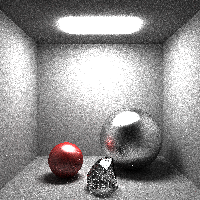
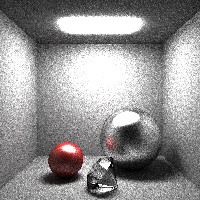
much simpler reflection model

diff --git a/render3d/material.go b/render3d/material.go
@@ -278,37 +278,24 @@ func densityAroundDirection(alpha float64, direction, sample model3d.Coord3D) fl
 	return 2 * (alpha + 1) / math.Pow(v, 1/(alpha+1)-1)
 }
 
-// RefractPhongMaterial is a material that refracts some
-// amount of its incoming into itself, with an
-// approximation similar to PhongMaterial.
+// RefractMaterial is an approximate refraction material
+// based on a delta function.
 //
-// This material is not a physically-based model, and as
-// such may cause light energy to be lost for higher
-// indices of refraction.
-// Also, it does not have a symmetrical BSDF for non-unit
-// indices of refraction, since concentration of light is
-// gained or lost depending on the direction hitting the
-// normal.
-type RefractPhongMaterial struct {
+// Unlike other BSDFs, the BSDF of RefractMaterial is
+// asymmetric, since energy is concentrated due to
+// refraction.
+type RefractMaterial struct {
 	// IndexOfRefraction is the index of refraction of
 	// this material. Values greater than one simulate
 	// materials like water or glass, where light travels
 	// more slowly than in space.
 	IndexOfRefraction float64
 
-	// Alpha controls the concentration of the refracted
-	// rays.
-	Alpha float64
-
 	// RefractColor is the mask used for refracted flux.
 	RefractColor Color
-
-	// NoFluxCorrection can be set to true to disable a
-	// max-Phong denominator.
-	NoFluxCorrection bool
 }
 
-func (r *RefractPhongMaterial) refract(normal, source model3d.Coord3D) model3d.Coord3D {
+func (r *RefractMaterial) refract(normal, source model3d.Coord3D) model3d.Coord3D {
 	sinePart := source.ProjectOut(normal)
 
 	sineScale := r.IndexOfRefraction
@@ -328,43 +315,74 @@ func (r *RefractPhongMaterial) refract(normal, source model3d.Coord3D) model3d.C
 	return sinePart.Add(cosinePart)
 }
 
-func (r *RefractPhongMaterial) refractInverse(normal, dest model3d.Coord3D) model3d.Coord3D {
+func (r *RefractMaterial) refractInverse(normal, dest model3d.Coord3D) model3d.Coord3D {
 	return r.refract(normal, dest.Scale(-1)).Scale(-1)
 }
 
-func (r *RefractPhongMaterial) BSDF(normal, source, dest model3d.Coord3D) Color {
+func (r *RefractMaterial) BSDF(normal, source, dest model3d.Coord3D) Color {
+	return r.RefractColor.Scale(r.bsdfScale(normal, source, dest))
+}
+
+func (r *RefractMaterial) bsdfScale(normal, source, dest model3d.Coord3D) float64 {
 	refracted := r.refract(normal, source)
-	scale := math.Pow(math.Max(0, refracted.Dot(dest)), r.Alpha)
-	scale *= r.Alpha + 1
-	if !r.NoFluxCorrection {
-		scale /= maximumCosine(source.Dot(normal), dest.Dot(normal))
+	delta := r.cosineDelta(normal, source, dest)
+	if dest.Dot(refracted) < 1-delta {
+		return 0
 	}
-	return r.RefractColor.Scale(scale * 2)
+	scale := 1 / maximumCosine(source.Dot(normal), dest.Dot(normal))
+
+	// delta/2 is the spanned fraction of the sphere
+	// for which we return non-zero.
+	return scale * 2 / delta
 }
 
-func (r *RefractPhongMaterial) SampleSource(normal, dest model3d.Coord3D) model3d.Coord3D {
-	// Mix in some uniform sampling.
-	// Inverting and then sampling around the inverse
-	// causes very bad samples for total internal
-	// reflection since we totally ignore certain source
-	// directions.
-	if rand.Intn(10) == 0 {
-		return model3d.NewCoord3DRandUnit()
+func (r *RefractMaterial) cosineDelta(normal, source, dest model3d.Coord3D) float64 {
+	delta := cosineEpsilon
+
+	// Area of the patch is changed for energy focus.
+	sourceSign := source.Dot(normal)
+	destSign := dest.Dot(normal)
+	if sourceSign != destSign {
+		// Reflection, no change in delta.
+	} else if sourceSign < 0 {
+		// Entering solid, area is concentrated.
+		delta /= r.IndexOfRefraction
+	} else {
+		// Leaving solid, area is spread out.
+		delta *= r.IndexOfRefraction
 	}
-	invDest := r.refractInverse(normal, dest)
-	return sampleAroundDirection(r.Alpha, invDest)
+
+	return delta
 }
 
-func (r *RefractPhongMaterial) SourceDensity(normal, source, dest model3d.Coord3D) float64 {
-	invDest := r.refractInverse(normal, dest)
-	return 0.1 + 0.9*(densityAroundDirection(r.Alpha, invDest, source))
+func (r *RefractMaterial) SampleSource(normal, dest model3d.Coord3D) model3d.Coord3D {
+	// Sample deterministically, since all vectors around
+	// this neighborhood have the same BRDF.
+	return r.refractInverse(normal, dest)
 }
 
-func (r *RefractPhongMaterial) Emission() Color {
+func (r *RefractMaterial) SourceDensity(normal, source, dest model3d.Coord3D) float64 {
+	// Perfectly cancel out the BRDF probability
+	// density, giving unchanged intensities for
+	// most incident angles.
+	//
+	// Note that it would actually be rather difficult to
+	// give a density over angles that would reflect into
+	// the dest direction, due to internal reflections and
+	// the like.
+	refracted := r.refract(normal, source)
+	delta := r.cosineDelta(normal, source, dest)
+	if dest.Dot(refracted) < 1-delta {
+		return 0
+	}
+	return 2 / delta
+}
+
+func (r *RefractMaterial) Emission() Color {
 	return Color{}
 }
 
-func (r *RefractPhongMaterial) Ambient() Color {
+func (r *RefractMaterial) Ambient() Color {
 	return Color{}
 }
 

diff --git a/render3d/material_test.go b/render3d/material_test.go
@@ -2,7 +2,6 @@ package render3d
 
 import (
 	"fmt"
-	"math"
 	"testing"
 
 	"github.com/unixpickle/model3d"
@@ -30,61 +29,6 @@ func TestPhongMaterialSampling(t *testing.T) {
 			DiffuseColor:  Color{X: 0.3, Y: 0.2, Z: 0.5},
 		})
 	})
-}
-
-func TestRefractPhongMaterialSampling(t *testing.T) {
-	for _, alpha := range []float64{0, 0.5, 2} {
-		for _, index := range []float64{1.3, 0.7} {
-			t.Run(fmt.Sprintf("Alpha%.1fIndex%.1f", alpha, index), func(t *testing.T) {
-				testMaterialSampling(t, &RefractPhongMaterial{
-					Alpha:             alpha,
-					IndexOfRefraction: index,
-					RefractColor:      Color{X: 1, Y: 0.9, Z: 0.5},
-				})
-			})
-		}
-	}
-}
-
-func TestRefractPhongMaterialFlux(t *testing.T) {
-	mat := &RefractPhongMaterial{
-		Alpha: 1000.0,
-		// This flux test stops being passed for higher
-		// indices of refraction, where a lot of flux is
-		// lost due to approximation errors when a ray
-		// enters the material (but not exits).
-		IndexOfRefraction: 1.3,
-		RefractColor:      Color{X: 1, Y: 1, Z: 1},
-	}
-
-	measureFlux := func(normal, source model3d.Coord3D) float64 {
-		var totalFlux1 float64
-		var count float64
-		for i := 0; i < 10000000; i++ {
-			dest := mat.SampleSource(normal, source)
-			weight := 1 / mat.SourceDensity(normal, dest, source)
-			if math.Abs(source.Dot(normal)) < 1e-3 || math.Abs(dest.Dot(normal)) < 1e-3 {
-				i--
-				continue
-			}
-			totalFlux1 += weight * mat.BSDF(normal, source, dest).X * math.Abs(dest.Dot(normal))
-			count++
-		}
-		return totalFlux1 / count
-	}
-
-	normal := model3d.NewCoord3DRandUnit()
-	source := normal.Add(model3d.NewCoord3DRandUnit().Scale(0.4)).Normalize()
-	flux1 := measureFlux(normal, source)
-	source = normal.Add(model3d.NewCoord3DRandUnit().Scale(0.4)).Normalize().Scale(-1)
-	flux2 := measureFlux(normal, source)
-
-	if math.Abs(flux1-flux2) > 1e-2 {
-		t.Error("flux on both sides of normal should match:", flux1, flux2)
-	}
-	if math.Abs(1-(flux1+flux2)/2) > 0.02 {
-		t.Error("flux should be nearly 1, but got:", (flux1+flux2)/2)
-	}
 }
 
 func testMaterialSampling(t *testing.T, m Material) {

diff --git a/examples/apis/render/main.go b/examples/apis/render/main.go
@@ -38,8 +38,7 @@ func main() {
 			Collider: LoadDiamond(),
 			Material: &render3d.JoinedMaterial{
 				Materials: []render3d.Material{
-					&render3d.RefractPhongMaterial{
-						Alpha:             50.0,
+					&render3d.RefractMaterial{
 						IndexOfRefraction: 1.3,
 						RefractColor:      render3d.Color{X: 0.9, Y: 0.9, Z: 0.9},
 					},
